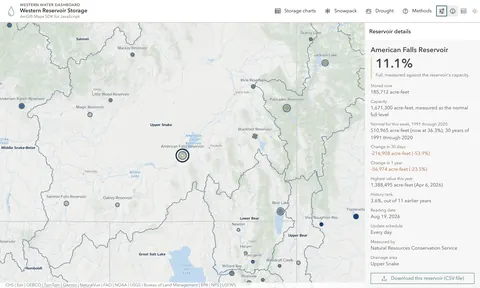
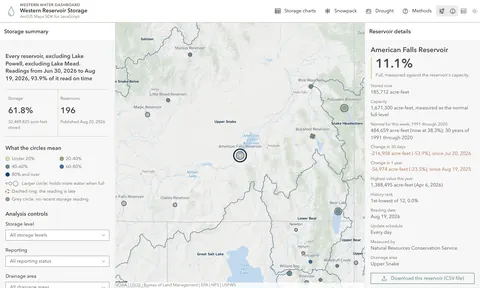
Show the storage summary in the dashboard screenshots
The three storage captures hid the summary panel. The panel reported 59
reservoirs and 5.5 million acre-feet under a card that said "Every
reservoir", above a map drawing 196, so no published image could carry
it. That bug is fixed and deployed, in western-water-dashboard#27.

The panel is in frame now, and it agrees with the page. The card reads
196 reservoirs at 61.8%, which is the count this note gives for the map
at its opening scope. The table capture holds both figures at once: the
summary says 196 and the table header says "All 196 reservoirs".

The storage map, the reservoir detail, and the reservoir table are
recaptured from the live site. The alternative text and the caption for
each say what the panel holds. The snowpack, drought, charts, and phone
captures do not have this panel and do not change.

Checks: node --check, html-validate 11.6.2, git diff --check, and a scan
of internal links, image paths, page anchors, and structured data. The
note has no horizontal overflow at 320, 768, 1024, and 1440 pixels.

diff --git a/notes/utah-water-dashboard-rebuild/index.html b/notes/utah-water-dashboard-rebuild/index.html
@@ -17,7 +17,7 @@
     <meta property="og:title" content="One place to see the water in the West | Brian Busch, GISP">
     <meta property="og:description" content="How a job-interview map became the Western Water Dashboard: reservoir storage, snowpack, and drought for eleven western states in one ArcGIS 5.1 application, rebuilt with AI agents under written rules.">
     <meta property="og:image" content="https://buschbrian.github.io/assets/images/western-water-dashboard-map.jpg">
-    <meta property="og:image:alt" content="The Western Water Dashboard storage map. Circles show each reservoir. Circle size shows capacity and circle color shows percent full.">
+    <meta property="og:image:alt" content="The Western Water Dashboard storage map, covering eleven western states. Circle size shows capacity and circle color shows percent full.">
     <meta property="og:image:width" content="1400">
     <meta property="og:image:height" content="840">
     <meta property="article:author" content="Brian Busch">
@@ -81,8 +81,8 @@
         </header>
 
         <figure class="post-hero-image">
-          <picture><source type="image/webp" srcset="/assets/images/r/western-water-dashboard-map-480.webp 480w, /assets/images/r/western-water-dashboard-map-960.webp 960w, /assets/images/r/western-water-dashboard-map-1400.webp 1400w" sizes="(max-width: 820px) 100vw, 1112px"><img src="/assets/images/western-water-dashboard-map.jpg" alt="The storage map covering eleven western states. Circles mark each reservoir inside the outlined drainage areas." width="1400" height="840" fetchpriority="high"></picture>
-          <figcaption>The storage map, from the Canadian border to Mexico. Circle size shows how much water a reservoir holds when full. Circle color shows how full it is now. The outlines are the 75 drainage areas.</figcaption>
+          <picture><source type="image/webp" srcset="/assets/images/r/western-water-dashboard-map-480.webp 480w, /assets/images/r/western-water-dashboard-map-960.webp 960w, /assets/images/r/western-water-dashboard-map-1400.webp 1400w" sizes="(max-width: 820px) 100vw, 1112px"><img src="/assets/images/western-water-dashboard-map.jpg" alt="The storage map covering eleven western states. A side panel gives the combined storage, the reservoir count, and the key to the circles." width="1400" height="840" fetchpriority="high"></picture>
+          <figcaption>The storage map, from the Canadian border to Mexico. The panel adds up the 196 reservoirs the map opens with. Circle size shows how much water a reservoir holds when full. Circle color shows how full it is now. The outlines are the 75 drainage areas.</figcaption>
         </figure>
 
         <div class="post-content">
@@ -178,7 +178,7 @@
           </p>
 
           <figure class="post-hero-image">
-            <picture><source type="image/webp" srcset="/assets/images/r/western-water-dashboard-detail-480.webp 480w, /assets/images/r/western-water-dashboard-detail-960.webp 960w, /assets/images/r/western-water-dashboard-detail-1400.webp 1400w" sizes="(max-width: 820px) 100vw, 1112px"><img src="/assets/images/western-water-dashboard-detail.jpg" alt="American Falls Reservoir selected on the storage map. A side panel gives the percent full, the stored volume, the normal for the week, and the change over one year." width="1400" height="840" loading="lazy"></picture>
+            <picture><source type="image/webp" srcset="/assets/images/r/western-water-dashboard-detail-480.webp 480w, /assets/images/r/western-water-dashboard-detail-960.webp 960w, /assets/images/r/western-water-dashboard-detail-1400.webp 1400w" sizes="(max-width: 820px) 100vw, 1112px"><img src="/assets/images/western-water-dashboard-detail.jpg" alt="American Falls Reservoir selected on the storage map. One side panel gives the combined storage. The other gives the percent full, the stored volume, the normal for the week, and the change over one year." width="1400" height="840" loading="lazy"></picture>
             <figcaption>American Falls Reservoir, in the Upper Snake, at 11.1 percent of its full level. Select any reservoir for its complete record and the drainage area it drains to.</figcaption>
           </figure>
 

diff --git a/projects/index.html b/projects/index.html
@@ -60,7 +60,7 @@
 
       <div class="project-stack">
         <article class="project-feature" id="western-water-dashboard">
-          <a class="project-feature-image" href="https://buschbrian.github.io/western-water-dashboard/" target="_blank" rel="noreferrer"><picture><source type="image/webp" srcset="/assets/images/r/western-water-dashboard-map-480.webp 480w, /assets/images/r/western-water-dashboard-map-960.webp 960w, /assets/images/r/western-water-dashboard-map-1400.webp 1400w" sizes="(max-width: 860px) 100vw, 484px"><img src="/assets/images/western-water-dashboard-map.jpg" alt="The Western Water Dashboard storage map, covering eleven western states." width="1400" height="840" loading="lazy"></picture></a>
+          <a class="project-feature-image" href="https://buschbrian.github.io/western-water-dashboard/" target="_blank" rel="noreferrer"><picture><source type="image/webp" srcset="/assets/images/r/western-water-dashboard-map-480.webp 480w, /assets/images/r/western-water-dashboard-map-960.webp 960w, /assets/images/r/western-water-dashboard-map-1400.webp 1400w" sizes="(max-width: 860px) 100vw, 484px"><img src="/assets/images/western-water-dashboard-map.jpg" alt="The Western Water Dashboard storage map, covering eleven western states, with the combined storage in a side panel." width="1400" height="840" loading="lazy"></picture></a>
           <div>
             <p class="project-meta">Personal Project | 2026</p>
             <h2>Western Water Dashboard</h2>

diff --git a/notes/index.html b/notes/index.html
@@ -46,7 +46,7 @@
 
       <div class="map-grid">
         <a class="map-card" id="utah-water-dashboard-rebuild" href="/notes/utah-water-dashboard-rebuild/">
-          <picture><source type="image/webp" srcset="/assets/images/r/western-water-dashboard-map-480.webp 480w, /assets/images/r/western-water-dashboard-map-960.webp 960w, /assets/images/r/western-water-dashboard-map-1400.webp 1400w" sizes="(max-width: 720px) 90vw, 345px"><img src="/assets/images/western-water-dashboard-map.jpg" alt="The Western Water Dashboard storage map, covering eleven western states." width="1400" height="840" loading="lazy"></picture>
+          <picture><source type="image/webp" srcset="/assets/images/r/western-water-dashboard-map-480.webp 480w, /assets/images/r/western-water-dashboard-map-960.webp 960w, /assets/images/r/western-water-dashboard-map-1400.webp 1400w" sizes="(max-width: 720px) 90vw, 345px"><img src="/assets/images/western-water-dashboard-map.jpg" alt="The Western Water Dashboard storage map, covering eleven western states, with the combined storage in a side panel." width="1400" height="840" loading="lazy"></picture>
           <p class="project-meta">Personal Project | 2026</p>
           <h3>One place to see the water in the West</h3>
           <p>Reservoir storage, mountain snow, and drought for eleven western states, in one ArcGIS application. AI agents did most of the work under written rules.</p>

diff --git a/index.html b/index.html
@@ -147,7 +147,7 @@
     </a>
 
     <a class="card feature" href="/notes/utah-water-dashboard-rebuild/">
-      <picture><source type="image/webp" srcset="/assets/images/r/western-water-dashboard-map-480.webp 480w, /assets/images/r/western-water-dashboard-map-960.webp 960w, /assets/images/r/western-water-dashboard-map-1400.webp 1400w" sizes="(max-width: 820px) 100vw, 1112px"><img src="/assets/images/western-water-dashboard-map.jpg" alt="The Western Water Dashboard storage map, covering eleven western states." width="1400" height="840" loading="lazy"></picture>
+      <picture><source type="image/webp" srcset="/assets/images/r/western-water-dashboard-map-480.webp 480w, /assets/images/r/western-water-dashboard-map-960.webp 960w, /assets/images/r/western-water-dashboard-map-1400.webp 1400w" sizes="(max-width: 820px) 100vw, 1112px"><img src="/assets/images/western-water-dashboard-map.jpg" alt="The Western Water Dashboard storage map, covering eleven western states, with the combined storage in a side panel." width="1400" height="840" loading="lazy"></picture>
       <div class="cols">
         <h3 class="serif">Western Water Dashboard</h3>
         <div>
